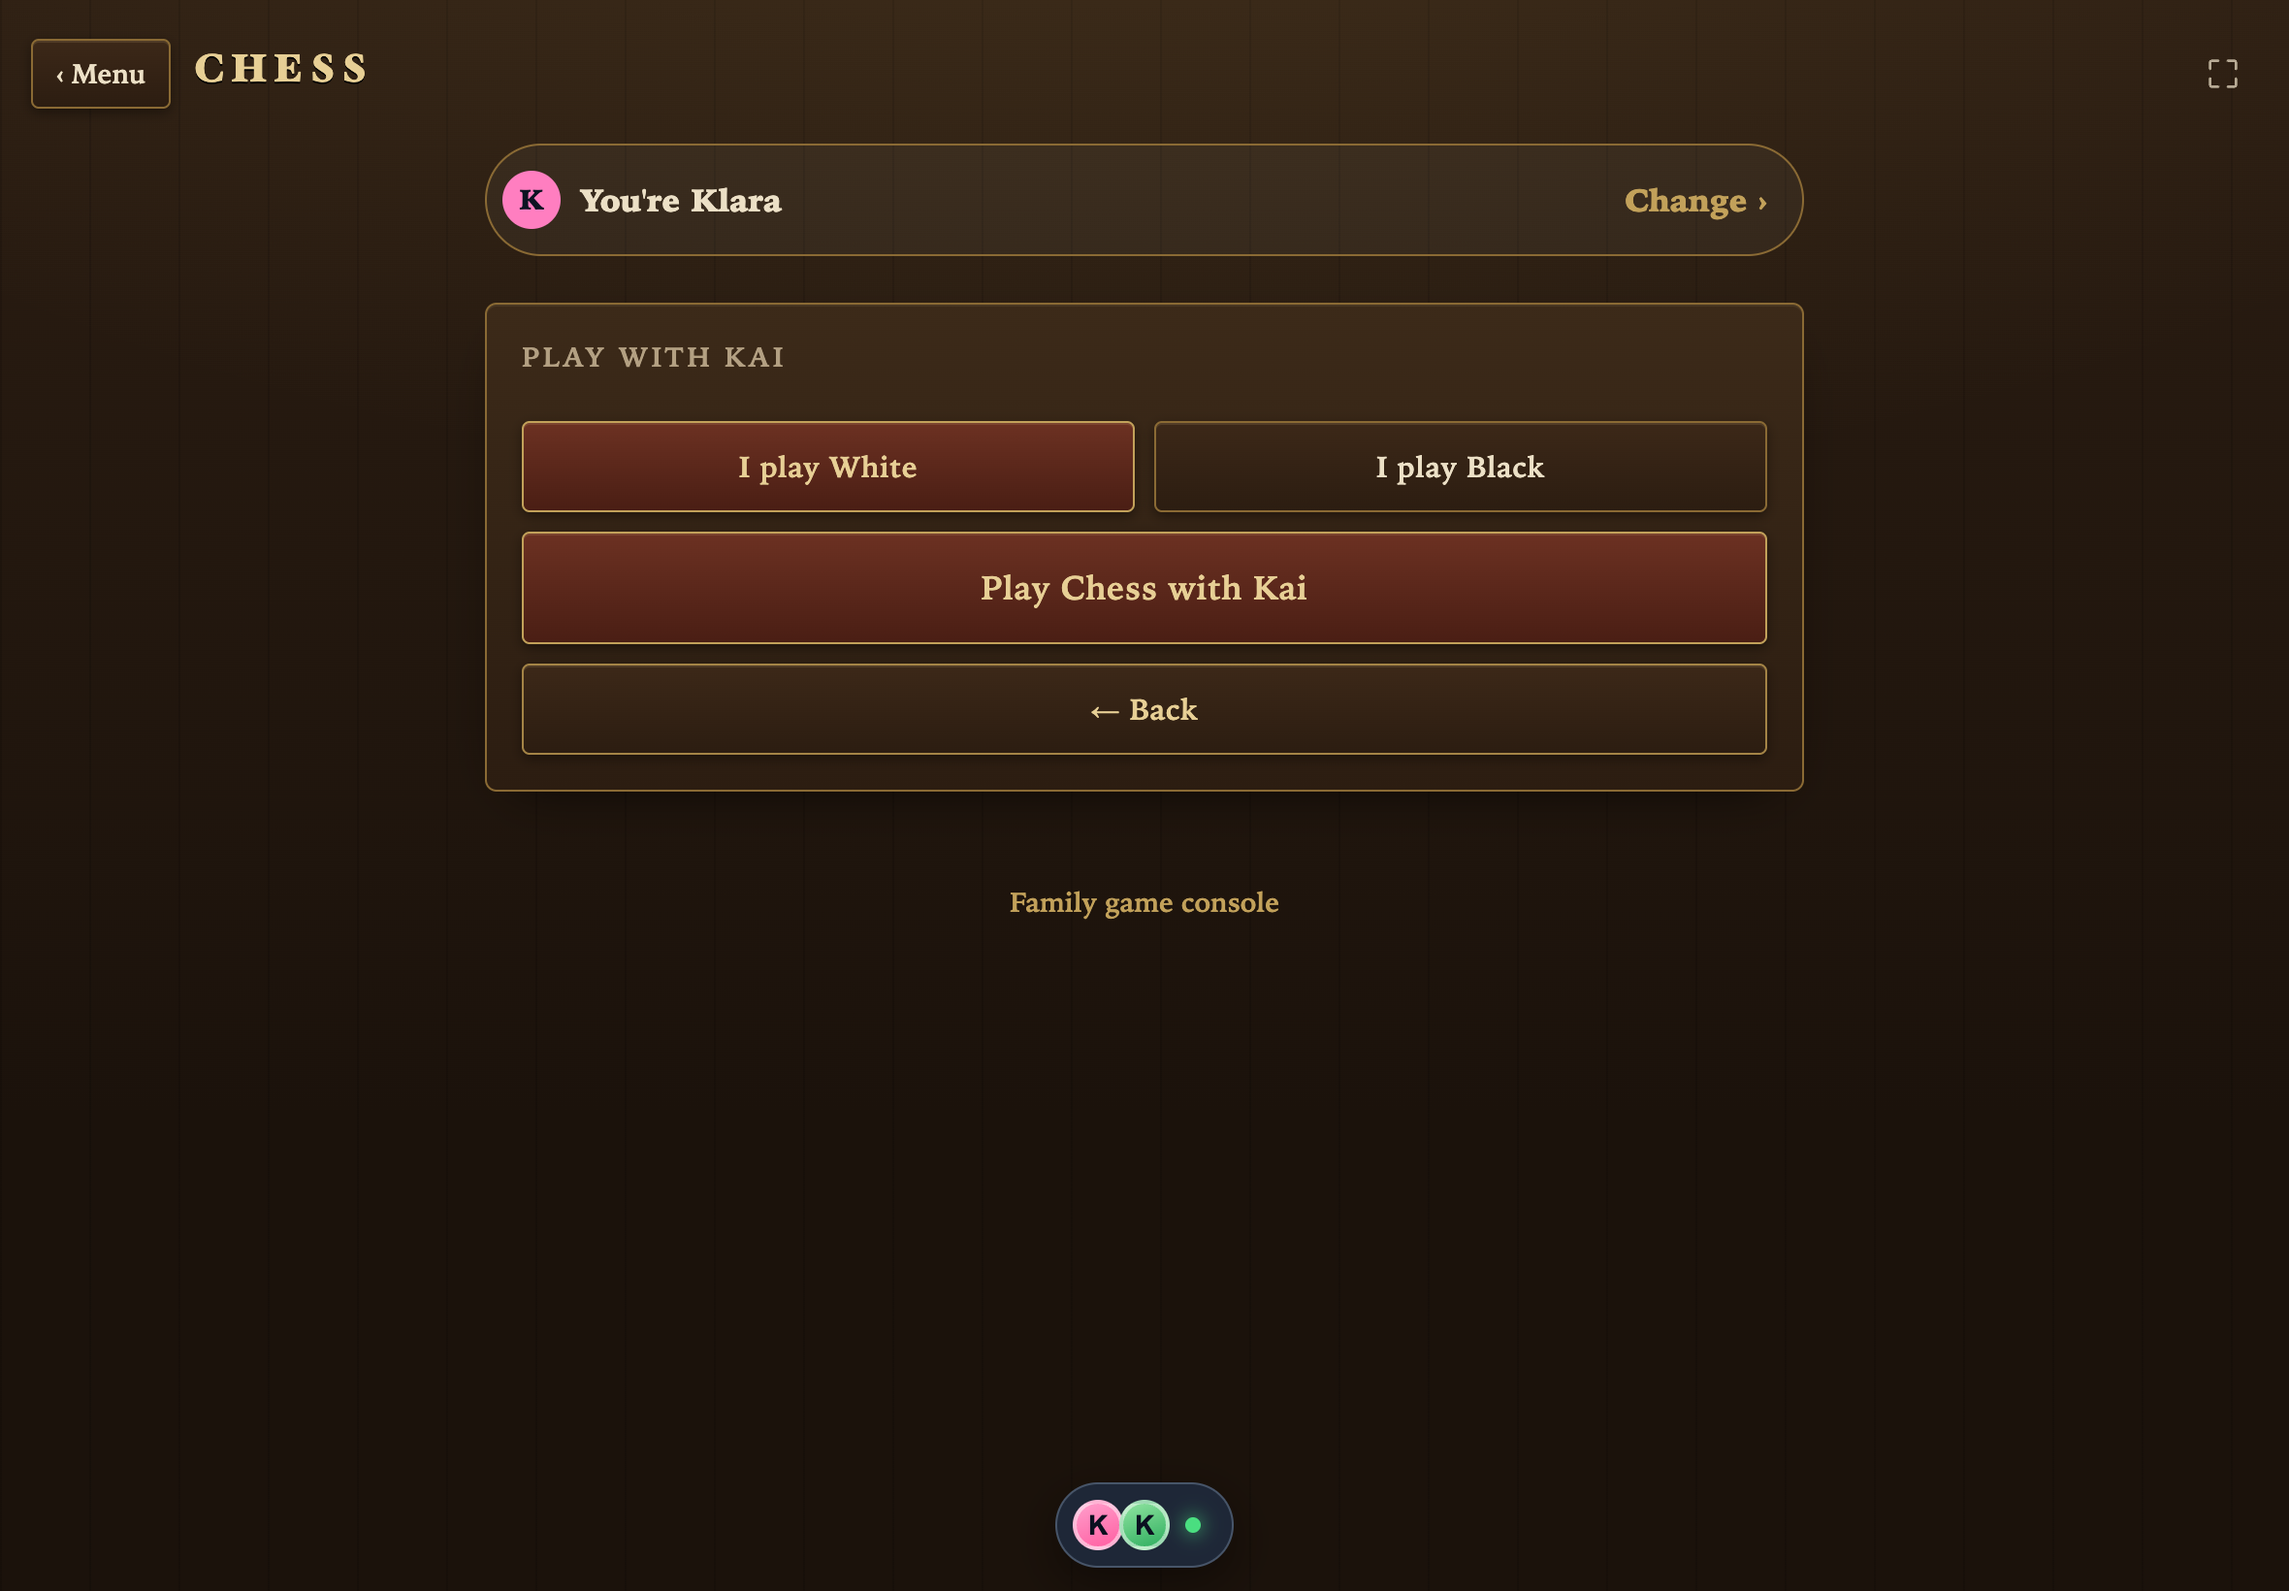
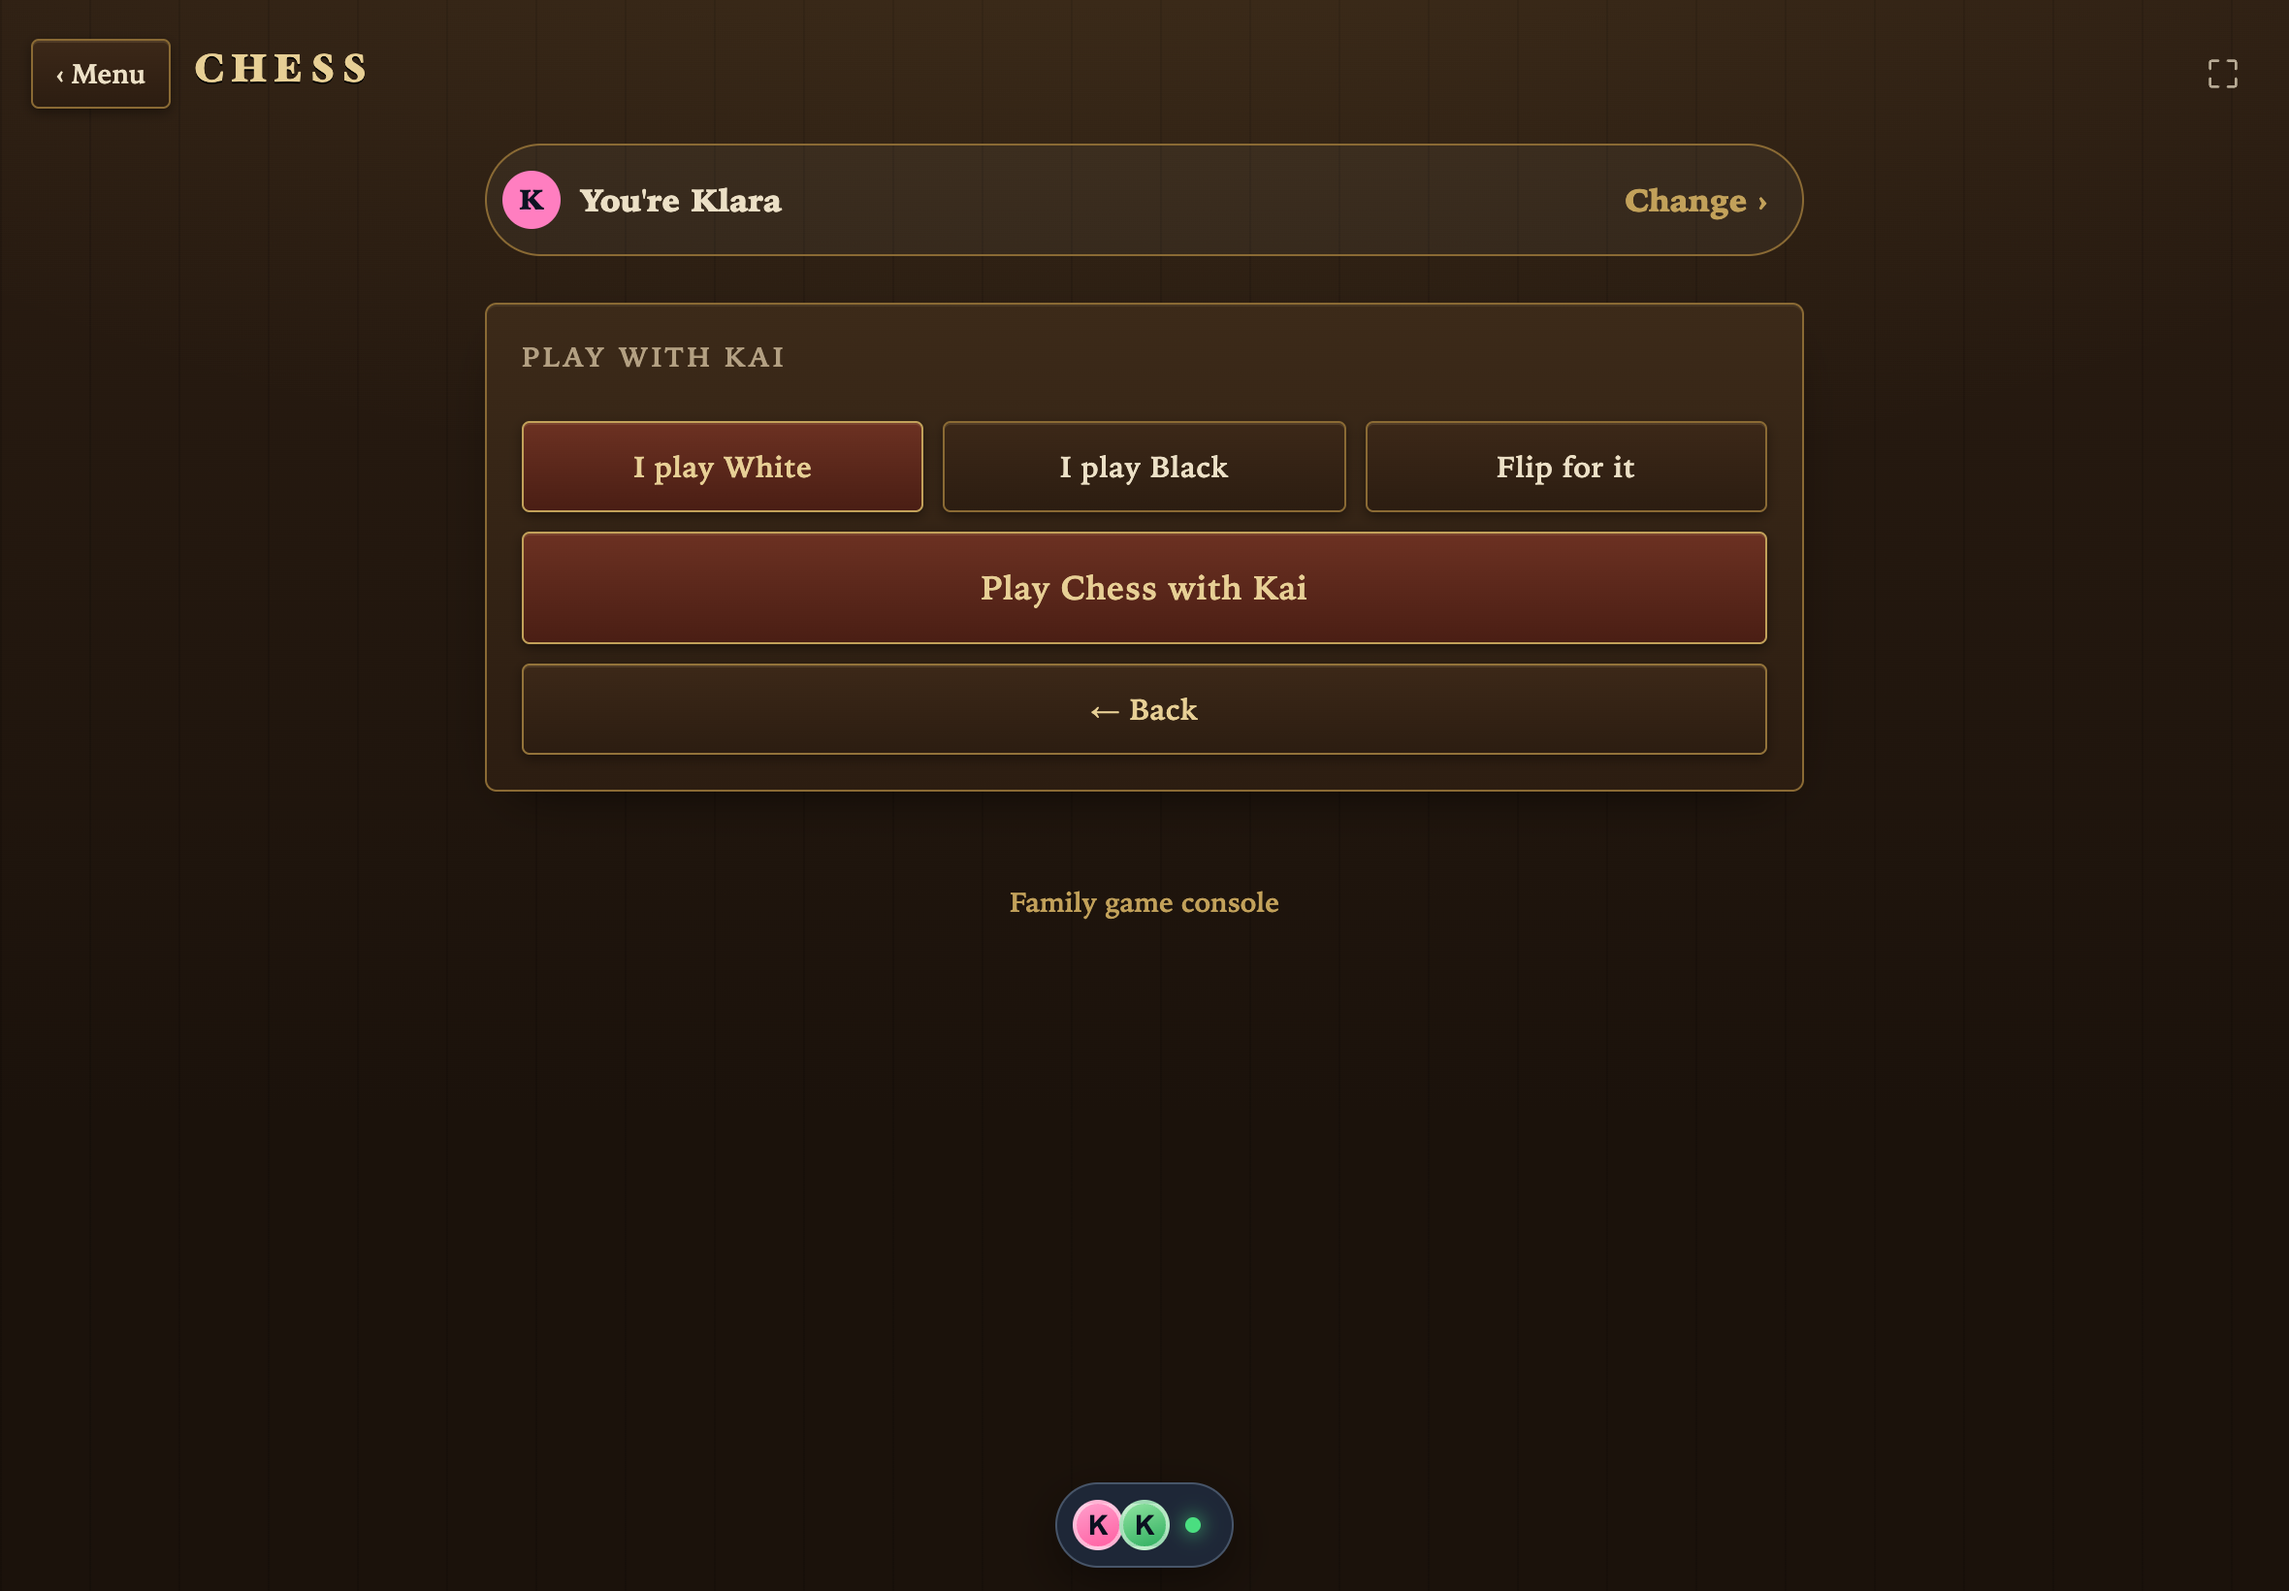
polish(chess): White, Black and the coin sit three across
The colour row is a two-column grid, so Flip for it wrapped alone onto a
second row. Three across on a tablet; on a phone the coin takes a full
row under the two colours.

Claude-Session: https://claude.ai/code/session_0146VWPAYsAFebJ5DNhYKXg7

Changed region(s): [[0.2784, 0.2488, 0.5258, 0.3421], [0.5877, 0.2799, 0.7114, 0.311]]

diff --git a/src/games/chess/components/ChessPage.tsx b/src/games/chess/components/ChessPage.tsx
@@ -503,7 +503,7 @@ export function ChessPage() {
               <>
                 {/* The friend's name arrives with their hello — a beat after the link. */}
                 <h2>Play with {party.theirName ?? 'your friend'}</h2>
-                <div className="row-actions" role="group" aria-label="Your colour">
+                <div className="row-actions chess-sides" role="group" aria-label="Your colour">
                   <button
                     className={`btn${hostSide === 'w' ? ' btn-primary' : ''}`}
                     aria-pressed={hostSide === 'w'}

diff --git a/src/games/chess/styles/chess.css b/src/games/chess/styles/chess.css
@@ -625,3 +625,11 @@ body:has(.chess-immersive) .party-root {
   display: inline-flex; align-items: center; gap: 8px;
   padding: 6px 14px;
 }
+
+/* The party host's colour pick: White, Black, or the coin — three across on a
+   tablet; on a phone the coin takes a full row under the two colours. */
+.chess-sides { grid-template-columns: repeat(3, 1fr); }
+@media (max-width: 480px) {
+  .chess-sides { grid-template-columns: 1fr 1fr; }
+  .chess-sides > :last-child { grid-column: span 2; }
+}
